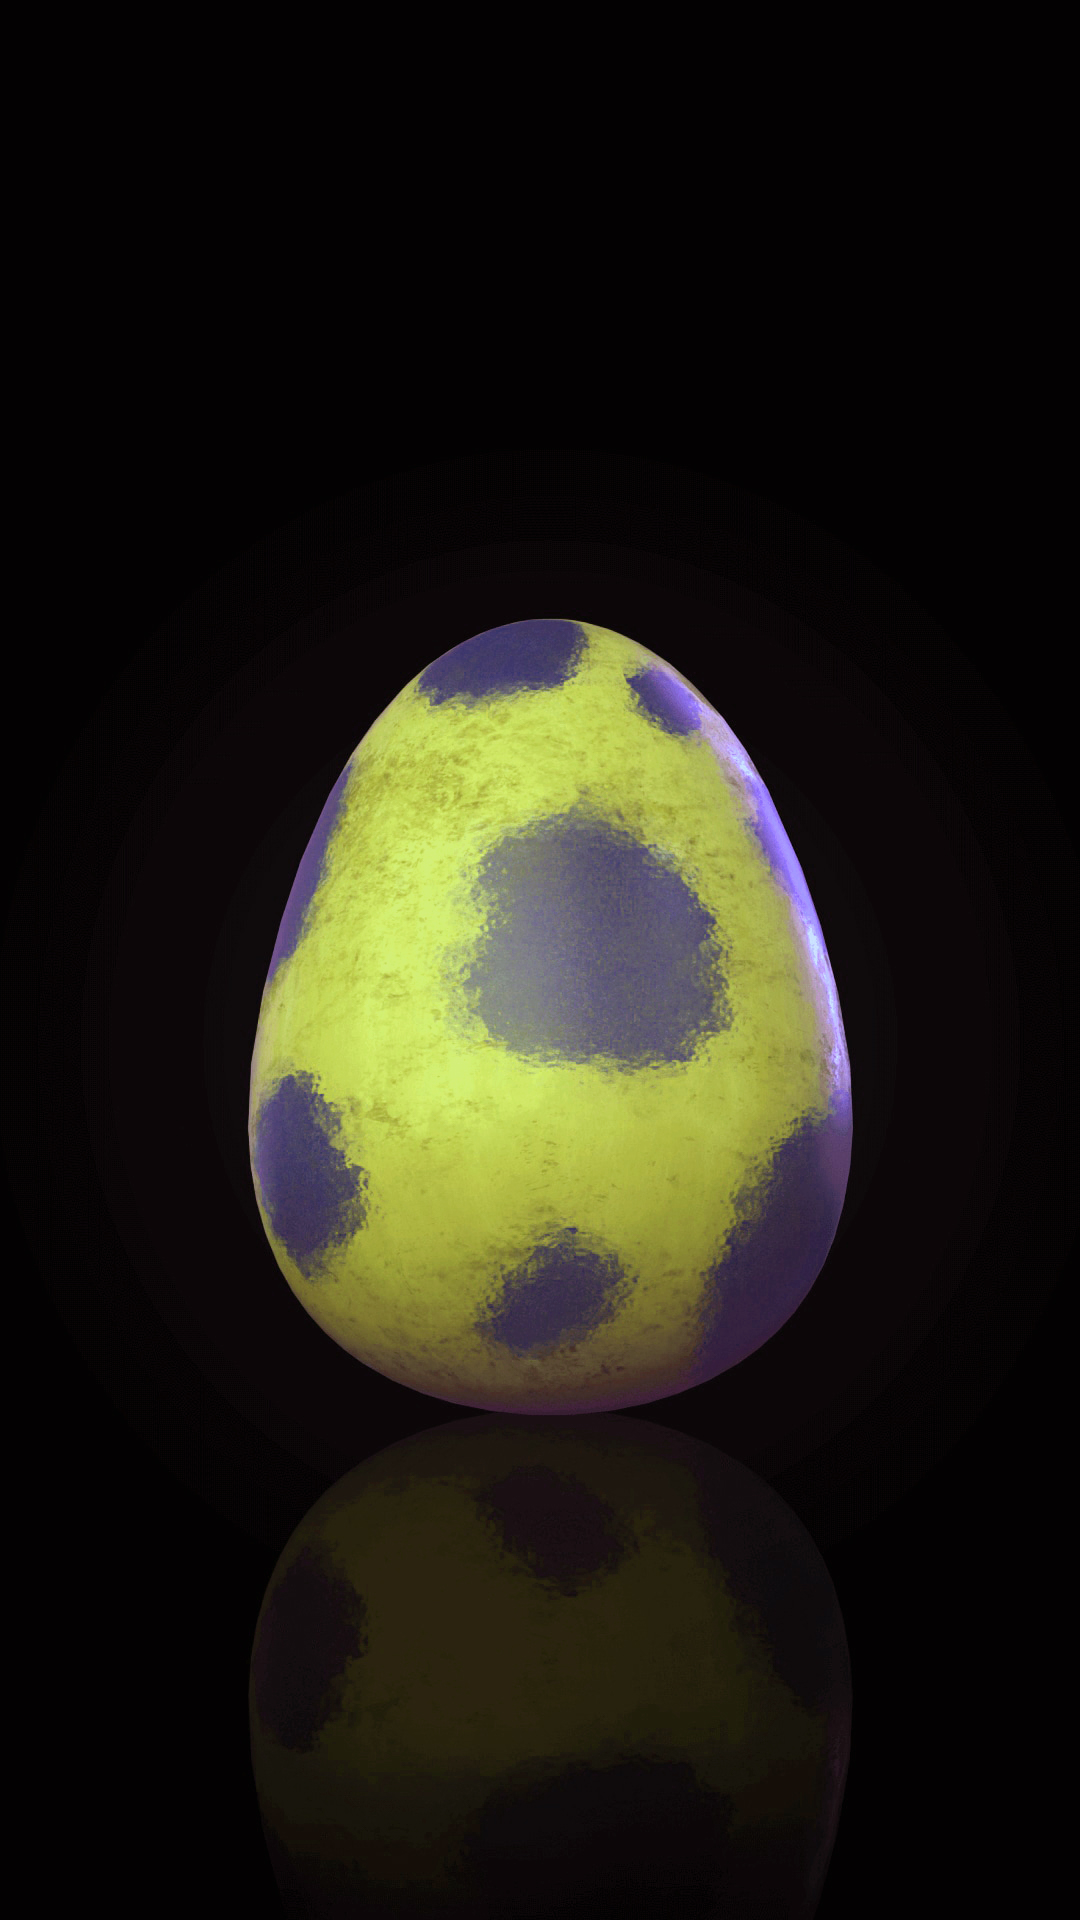
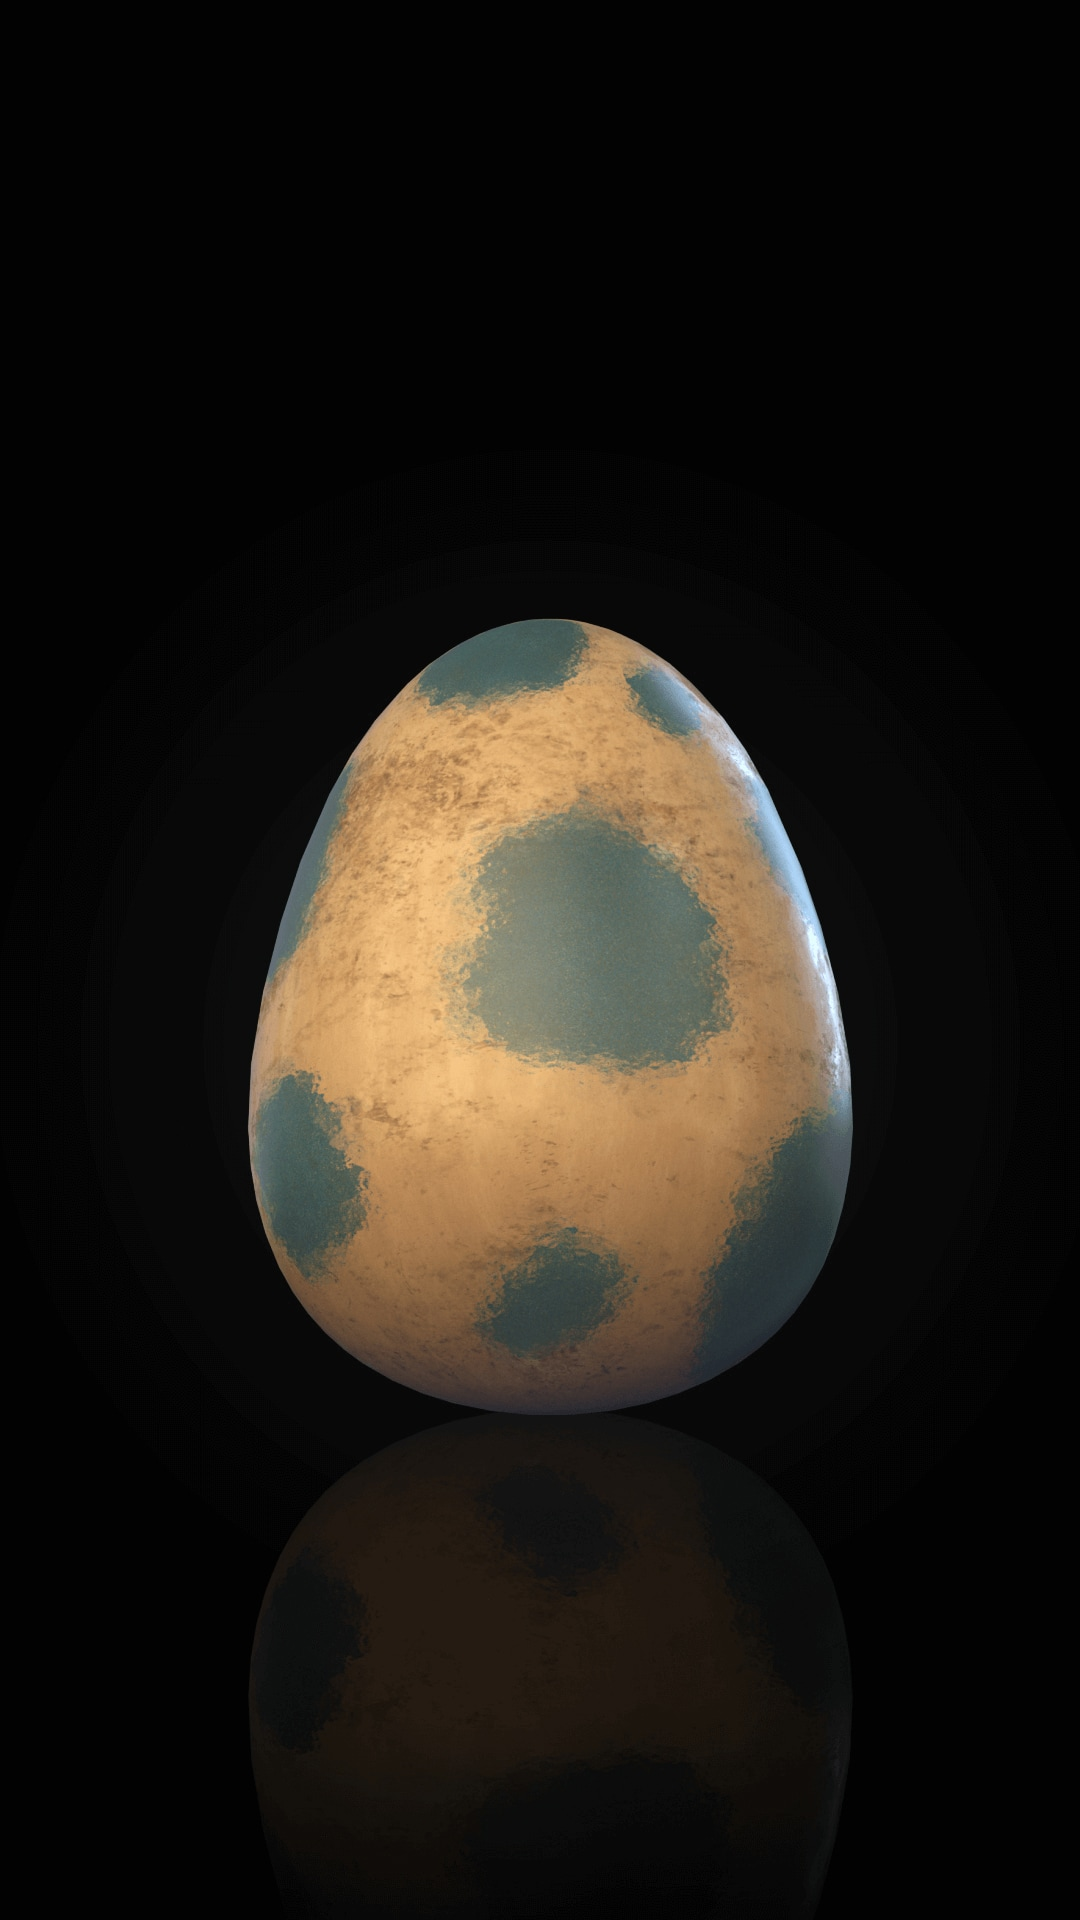
Disable colors for now

Changed region(s): [[0.2139, 0.3125, 0.7944, 0.7188]]

diff --git a/packages/app/src/components/EggCard/EggCard.tsx b/packages/app/src/components/EggCard/EggCard.tsx
@@ -182,7 +182,7 @@ export const EggCard: React.FC<EggCardType> = ({ egg, hatchEgg, hatchEggReady })
   const hybridEggURL = window.location.origin + '/static/images/hybrid.jpg'
   const transparentEggURL = window.location.origin + '/static/images/transparent.jpg'
   const backgroundImage = !egg.interactive && !hatching ? transparentEggURL : egg.basic ? basicEggURL : hybridEggURL
-  const hue = hashEgg(egg) % 9
+  // const hue = hashEgg(egg) % 9
 
   return (
     <>
@@ -202,7 +202,7 @@ export const EggCard: React.FC<EggCardType> = ({ egg, hatchEgg, hatchEggReady })
             borderRadius: 8,
             height: 160,
             transition: 'background-image 1000ms linear',
-            filter: (!egg.hatched && !egg.interactive) ? null : `hue-rotate(0.${hue}turn)`,
+            // filter: (!egg.hatched && !egg.interactive) ? null : `hue-rotate(0.${hue}turn)`,
           }}>
           <TextWrapper
             style={{
